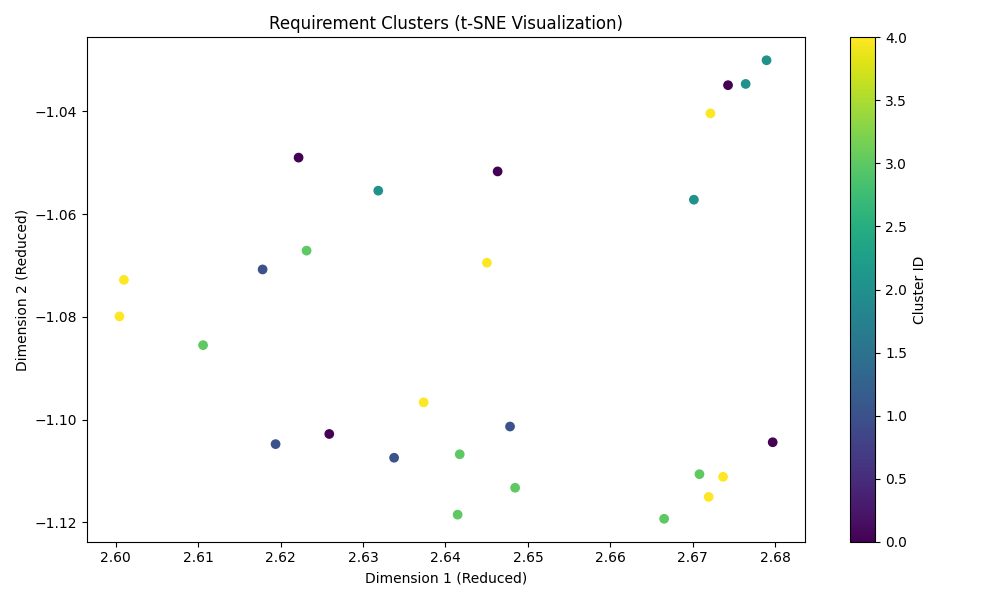
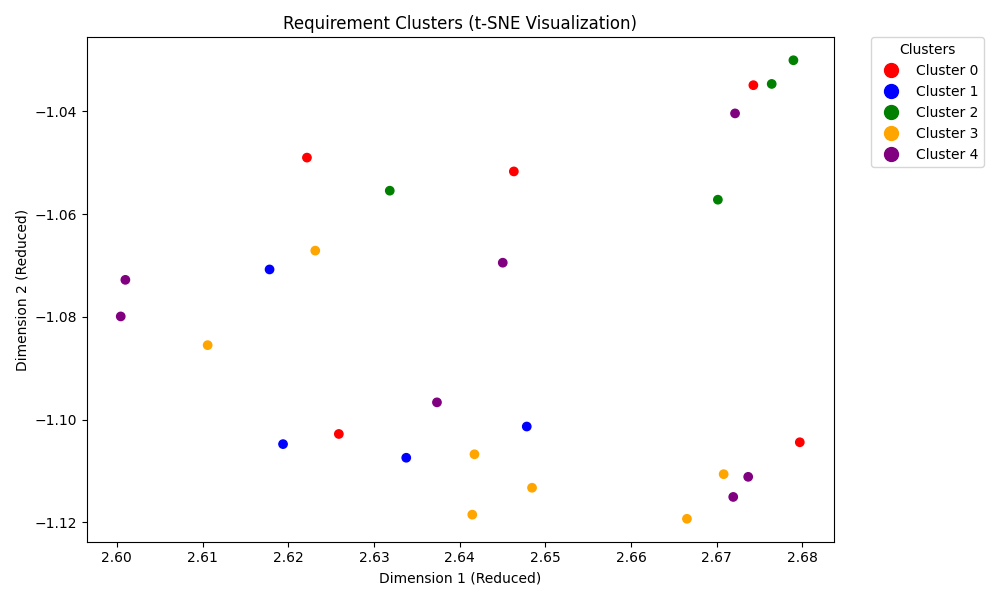
improved graph

diff --git a/main.py b/main.py
@@ -152,21 +152,36 @@ def visualize_embeddings(embeddings, clusters):
     tsne = TSNE(n_components=2, random_state=42, perplexity=perplexity)
     reduced_embeddings = tsne.fit_transform(embeddings_array)
 
+    # Define distinct colors for clusters
+    cluster_ids = np.unique(clusters)
+    colors = ['red', 'blue', 'green', 'orange', 'purple']  # Add more colors if needed
+    if len(cluster_ids) > len(colors):
+        raise ValueError("Not enough colors defined for the number of clusters.")
+    color_map = {cluster_id: colors[i] for i, cluster_id in enumerate(cluster_ids)}
+    cluster_colors = [color_map[cluster] for cluster in clusters]
+
     # Scatter plot of reduced embeddings
     plt.figure(figsize=(10, 6))
     scatter = plt.scatter(
         reduced_embeddings[:, 0],
         reduced_embeddings[:, 1],
-        c=clusters, cmap="viridis"
+        c=cluster_colors
     )
-    plt.colorbar(scatter, label="Cluster ID")
+
+    # Create a legend with cluster labels and move it outside the plot
+    legend_labels = [f"Cluster {cluster_id}" for cluster_id in cluster_ids]
+    handles = [plt.Line2D([0], [0], marker='o', color=color_map[cluster_id], markersize=10, linestyle='') for cluster_id in cluster_ids]
+    plt.legend(
+        handles, legend_labels, title="Clusters", loc="upper left",
+        bbox_to_anchor=(1.05, 1), borderaxespad=0
+    )
 
     # Add title and description
     plt.title("Requirement Clusters (t-SNE Visualization)")
     plt.xlabel("Dimension 1 (Reduced)")
     plt.ylabel("Dimension 2 (Reduced)")
 
-    # Add a legend describing the purpose of the diagram
+    # Add a description below the diagram
     plt.figtext(
         0.5, -0.05,
         "This diagram visualizes the relative similarity of requirements, reduced from high-dimensional embeddings into 2D space. Points with similar meanings are grouped together.",
